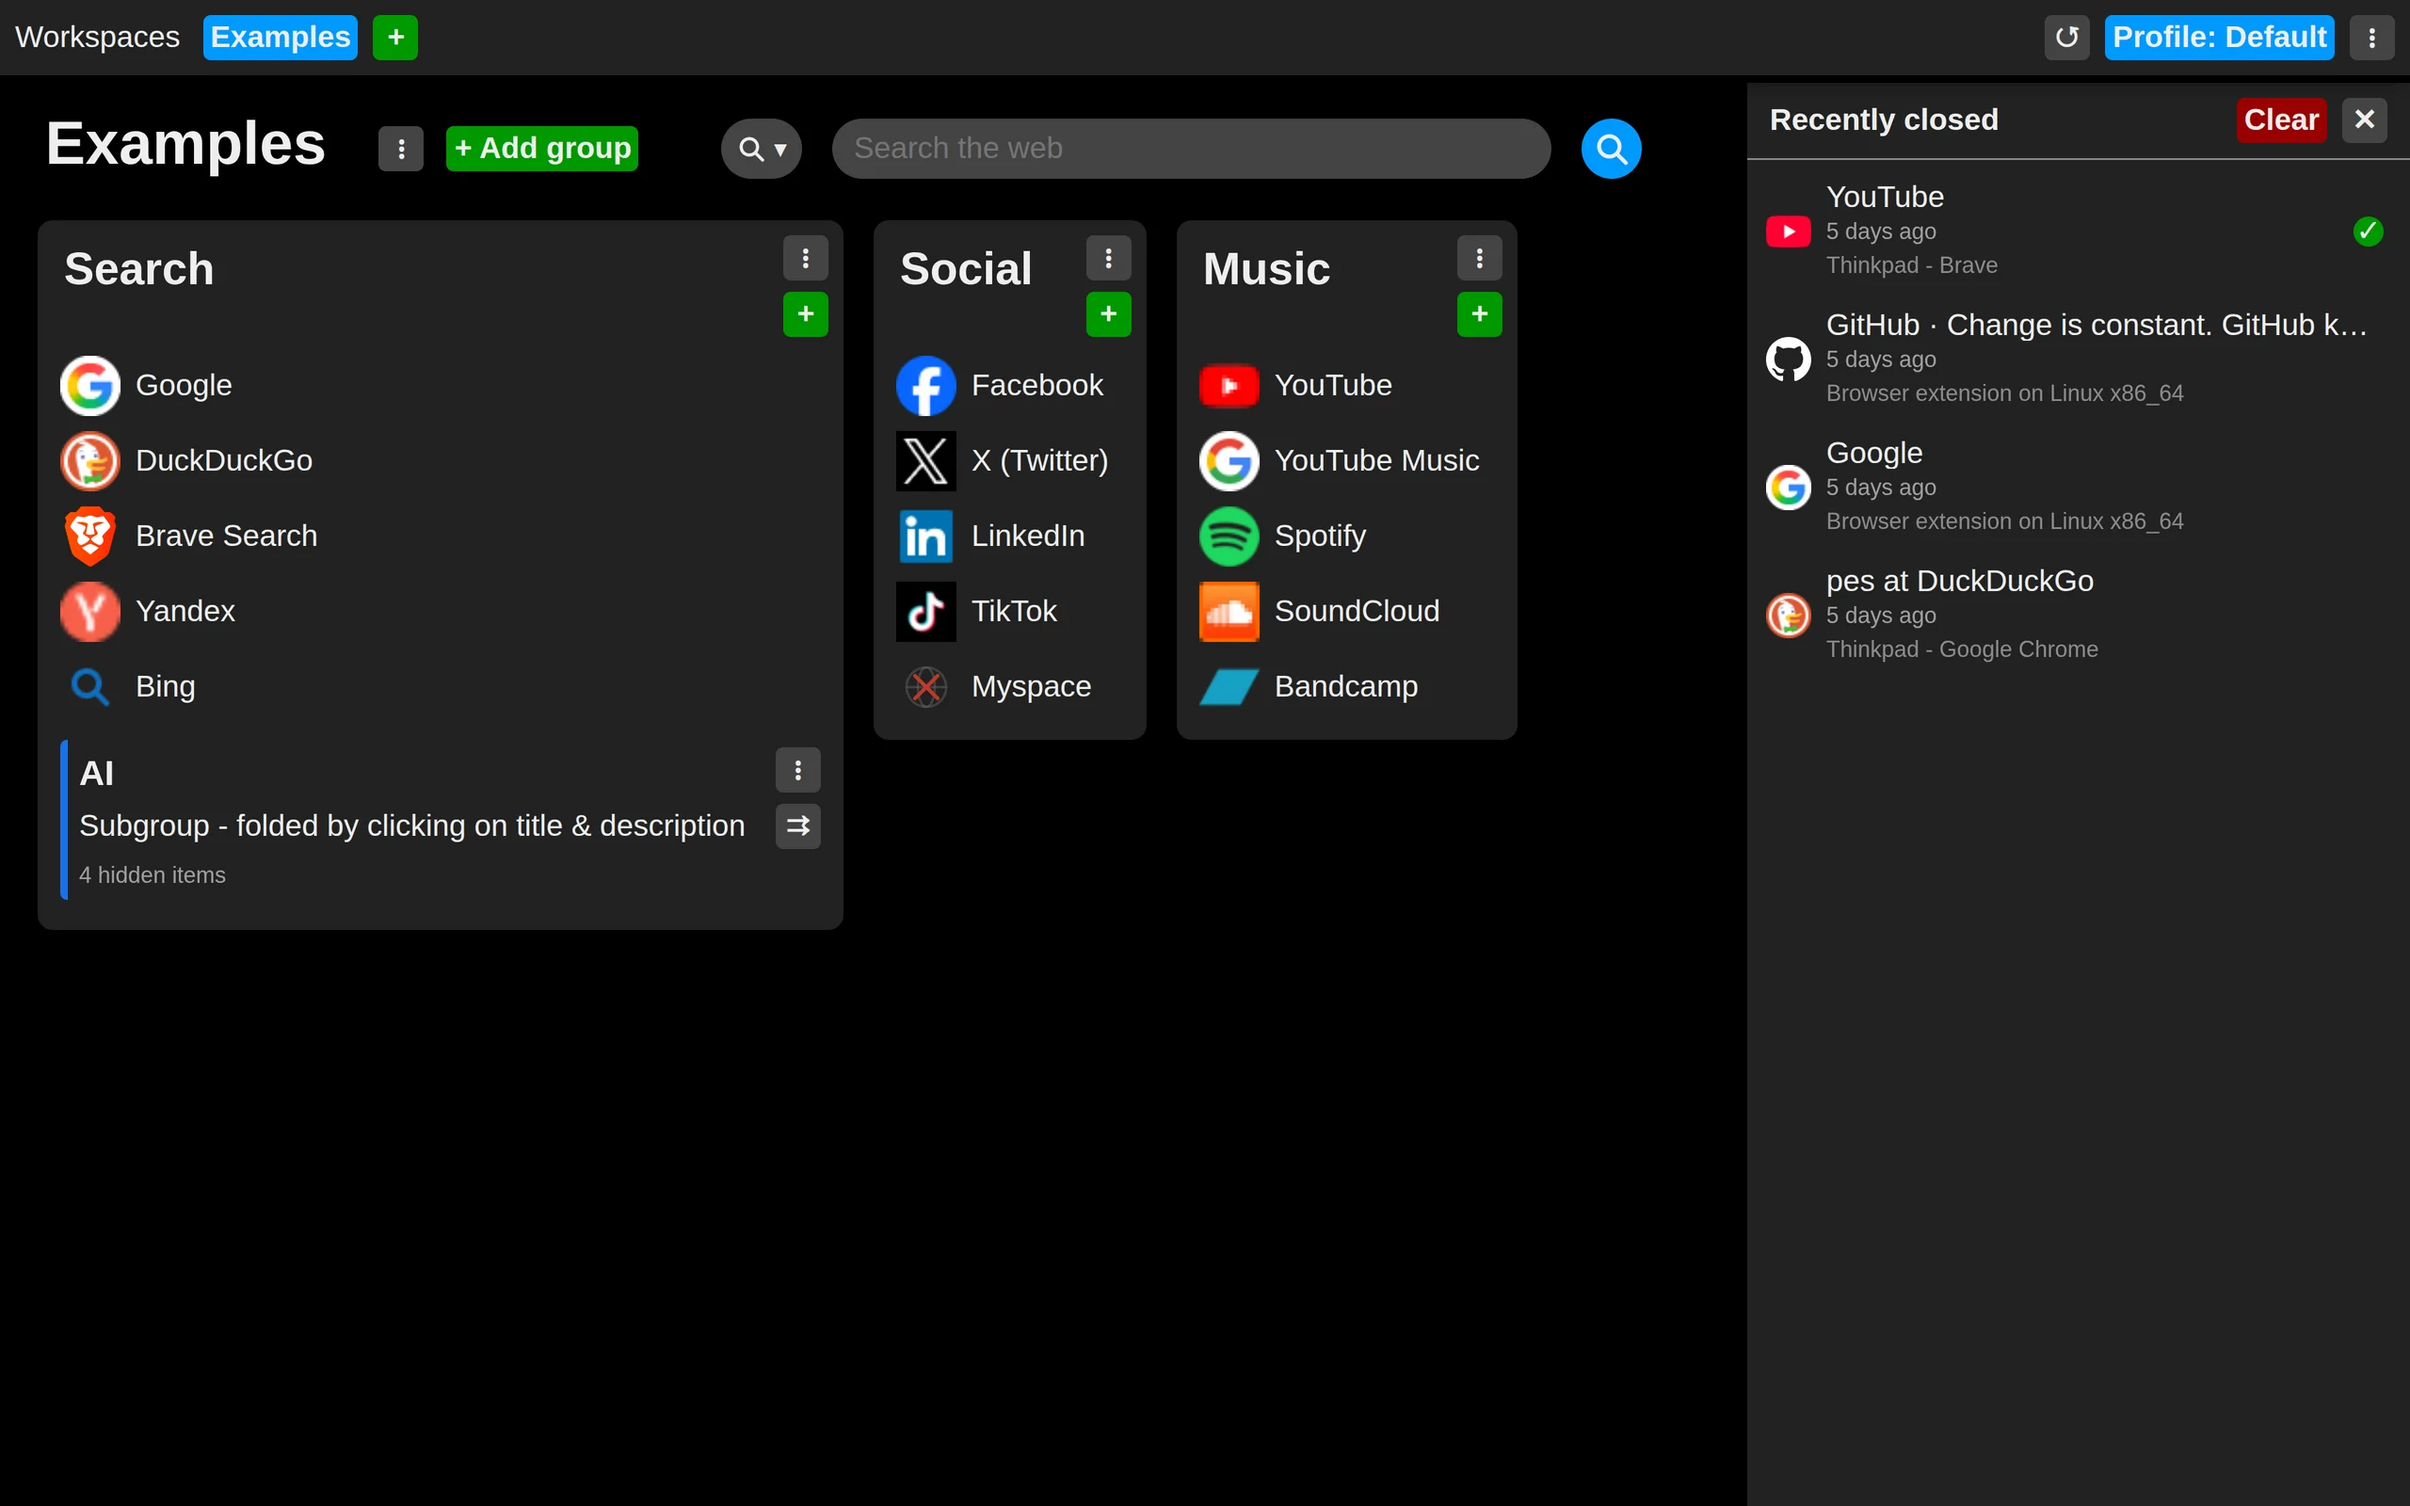
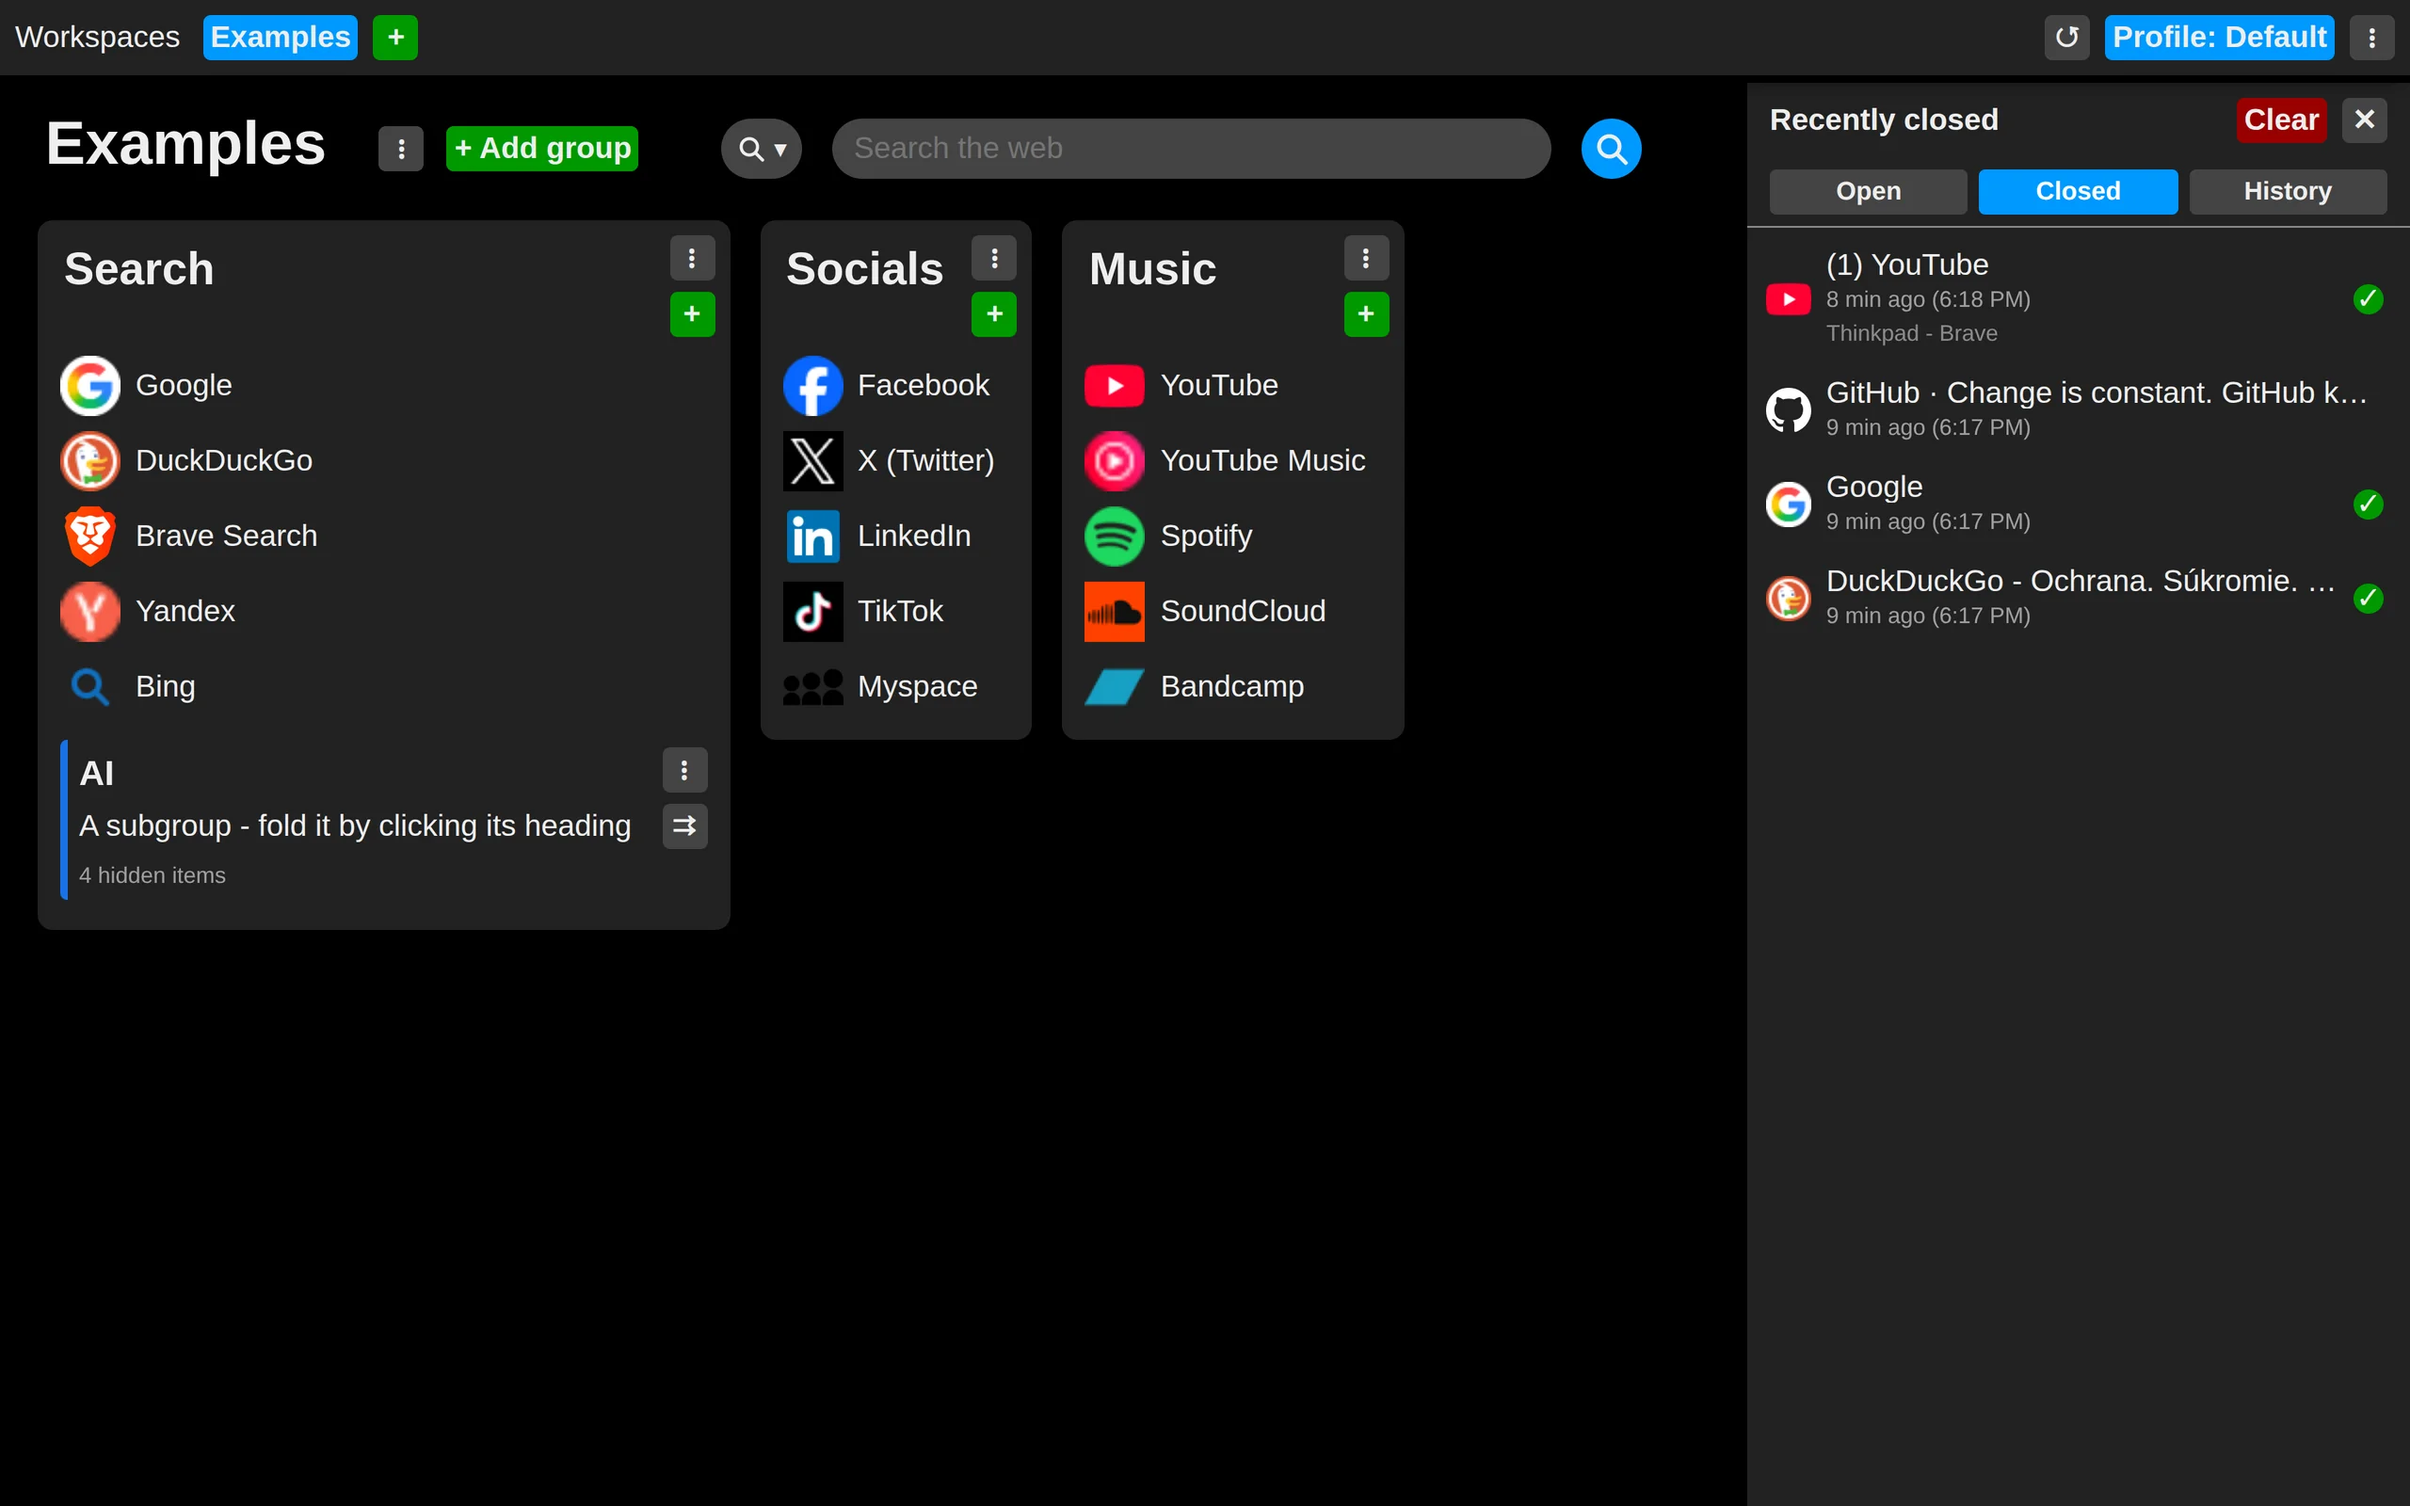
update slovak screenshots backup

Changed region(s): [[0.0312, 0.125, 0.6562, 0.625], [0.7188, 0.0938, 1.0, 0.4375], [0.9688, 0.3125, 1.0, 0.3438]]

diff --git a/public/content/tips/sk/discover-history.md b/public/content/tips/sk/discover-history.md
@@ -1,9 +1,31 @@
 # Objav históriu
 
-Pohyb myši na úplne pravý okraj stránky (nad panel) spôsobí odrolovanie tohoto panela a zobrazí sa história naposledy zavretých kariet.
+Pohyb myši na úplne pravý okraj stránky (nad panel) spôsobí odrolovanie tohoto panela a zobrazí sa panel, ktorý obsahuje:
+- momentálne otvorené karty
+- história naposledy zavretých kariet
+- história navštívených stránok
 
-Samozrejme aj táto časť je synchronizovaná a vidno tam zavreté karty zo všetkých inštalácií.
+![panel-zrolovany_1x.webp](../../../images/sk/tips/discover-history/panel-zrolovany_1x.webp)
+
+![panel-otvoreny_1x.webp](../../../images/sk/tips/discover-history/panel-otvoreny_1x.webp)
+
+Pohyb myši mimo ponuky bočného panela ale spôsobí jej opätovné zavretie. 
+
+Predísť tomuto správaniu je možné otvorením bočného panelu pomocou jeho tlačidla. 
+
+Panel zostane otvorený až po dobu kým nie je zaznamenaný klik mimo jeho oblasť. 
+
+![panel-tlacidlo-lokacia_1x.webp](../../../images/sk/tips/discover-history/panel-tlacidlo-lokacia_1x.webp)
+
+![panel-tlacidlo_1x.webp](../../../images/sk/tips/discover-history/panel-tlacidlo_1x.webp)
+![panel-tlacidlo-zapnute_1x.webp](../../../images/sk/tips/discover-history/panel-tlacidlo-zapnute_1x.webp)
+
+Samozrejme aj táto časť je synchronizovaná (ak používateľ neurčil inak) a vidno tam zavreté karty a navštívené stránky zo všetkých inštalácií.
+
+Momentálne otvorené karty sa nesynchronizujú a sú zobrazené v poradí ktoré odpovedá ich poradiu na paneli kariet prehliadača.
 
 Pre pridanie niektorej stránky do kolekcie stačí potom použiť tlačidlo "+" alebo jednoducho využiť "ťahaj a pusť".
+
+![panel-pridat-link_1x.webp](../../../images/sk/tips/discover-history/panel-pridat-link_1x.webp)
 
 Stránky, ktoré už boli uložené do nejakej kolekcie budú označené zelenou fajkou.

diff --git a/public/content/tips/sk/lets-begin.md b/public/content/tips/sk/lets-begin.md
@@ -10,9 +10,10 @@ Odteraz uvidíte takéto odkazy vždy, keď otvoríte novú kartu.
 
 ![Nová karta s ukážkovými odkazmi](../../../images/sk/tips/lets-begin/2_1x.webp)
 
-Panel s ikonami na pravom okraji sú Vaše zavreté karty. Presuňte myš na tento okraj a chvíľu ju
-tam podržte (predvolene 0,3 sekundy, túto hodnotu si neskôr môžete zmeniť v nastaveniach) a panel
-sa rozbalí.
+Panel s ikonami na pravom okraji sú Vaše otvorené karty, história zavretých kariet a história navštívených stránok.
+
+Presuňte myš na tento okraj a chvíľu ju tam podržte (predvolene 0,3 sekundy, túto hodnotu si neskôr môžete zmeniť v nastaveniach)
+a panel sa rozbalí.
 
 ![Nová karta s rozbalenou históriou zavretých kariet](../../../images/sk/tips/lets-begin/3_1x.webp)
 

diff --git a/public/content/tips/sk/set-size.md b/public/content/tips/sk/set-size.md
@@ -2,4 +2,14 @@
 
 Veľkosť prvkov rozhrania nastavíte v nastaveniach rozšírenia: v sekcii „Vzhľad a správanie“ posúvajte posuvník „Veľkosť“, kým nebude všetko tak, ako chcete.
 
+Toto nastavenie sa nesynchronizuje a je uložené vždy pre konkrétny prehliadač.
+
 ![Posuvník „Veľkosť“ v sekcii „Vzhľad a správanie“ v nastaveniach](../../../images/sk/tips/set-size/settings_size_1x.webp)
+
+Príklad 100 % veľkosť:
+
+![100% velkosť](../../../images/sk/tips/set-size/velkost-100_1x.webp)
+
+Príklad 75% veľkosť:
+
+![75% velkosť](../../../images/sk/tips/set-size/velkost-75_1x.webp)

diff --git a/public/content/tips/en/lets-begin.md b/public/content/tips/en/lets-begin.md
@@ -10,7 +10,9 @@ From now on, links like these are what you will see every time you open a new ta
 
 ![New tab screen with example links](../../../images/en/tips/lets-begin/2_1x.webp)
 
-The panel of icons on the right edge holds your closed tabs. Move the mouse to that edge and keep it
+The panel of icons on the right edge holds your open tabs, closed tabs and history. 
+
+Move the mouse to that edge and keep it
 there for a moment (0.3 seconds by default; you can change this later in the settings) and the panel
 will unfold.
 

diff --git a/public/content/tips/sk/change-background.md b/public/content/tips/sk/change-background.md
@@ -5,3 +5,8 @@ Jednou z výhod prémiovej verzie je možnosť prispôsobiť si pozadie novej ka
 Tapetu si vyberiete v nastaveniach rozšírenia, v sekcii „Vzhľad a správanie“ nájdete nastavenie „Pozadie“.
 
 Obrázok sa uloží len v zariadení, kde ste ho nastavili, a do ostatných zariadení sa nesynchronizuje.
+
+![Nastavenie pozadia](../../../images/sk/tips/set-background/pozadie_nastavenia_1x.webp)
+
+![Nastavenie pozadia](../../../images/sk/tips/set-background/pozadie_priklad_1x.webp)
+

diff --git a/public/content/tips/sk/disable-ads.md b/public/content/tips/sk/disable-ads.md
@@ -1,3 +1,11 @@
 # Vypnutie reklám
 
 Ak si aktivujete platenú verziu aplikácie, jednou z výhod je, že z rozšírenia zmizne reklamný pruh.
+
+Ponuka je k dispozícií hneď na úvodnej stránke:
+
+- [Domovská stránka](https://tabilinks.app/sk)
+
+Plnú verziu je možné zakúpiť tu:
+
+- [Nastavenia účtu](https://tabilinks.app/account)

diff --git a/public/content/tips/sk/ctrl-d-saves-here.md b/public/content/tips/sk/ctrl-d-saves-here.md
@@ -11,3 +11,5 @@ Chrome nedovoľuje rozšíreniu zvoliť ani zmeniť vlastné klávesové skratky
 ## Cesta cez menu Chromu
 
 Menu Chromu (tri bodky vpravo hore) → Rozšírenia → Spravovať rozšírenia → „Klávesové skratky“ v ľavom menu.
+
+![75% velkosť](../../../images/sk/tips/ctrl-d-saves-here/skratka-nastavenia_1x.webp)
